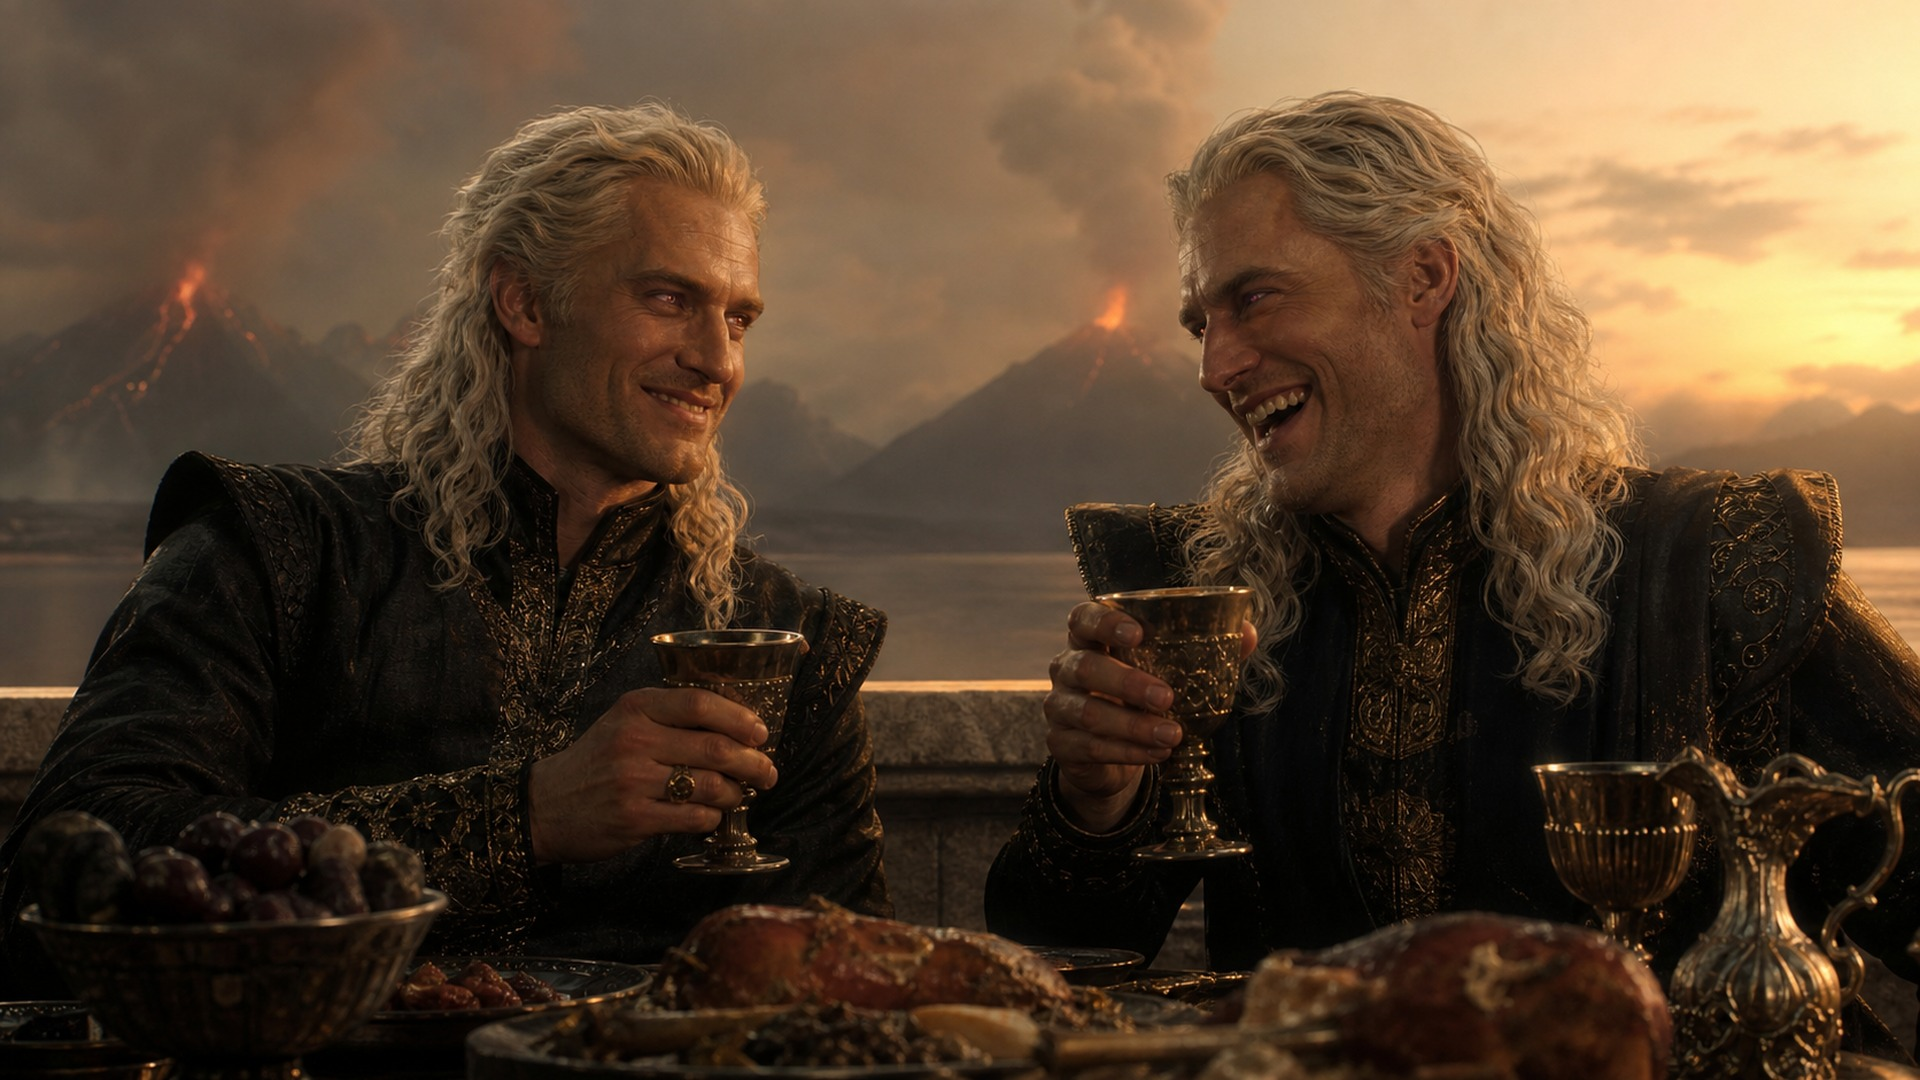
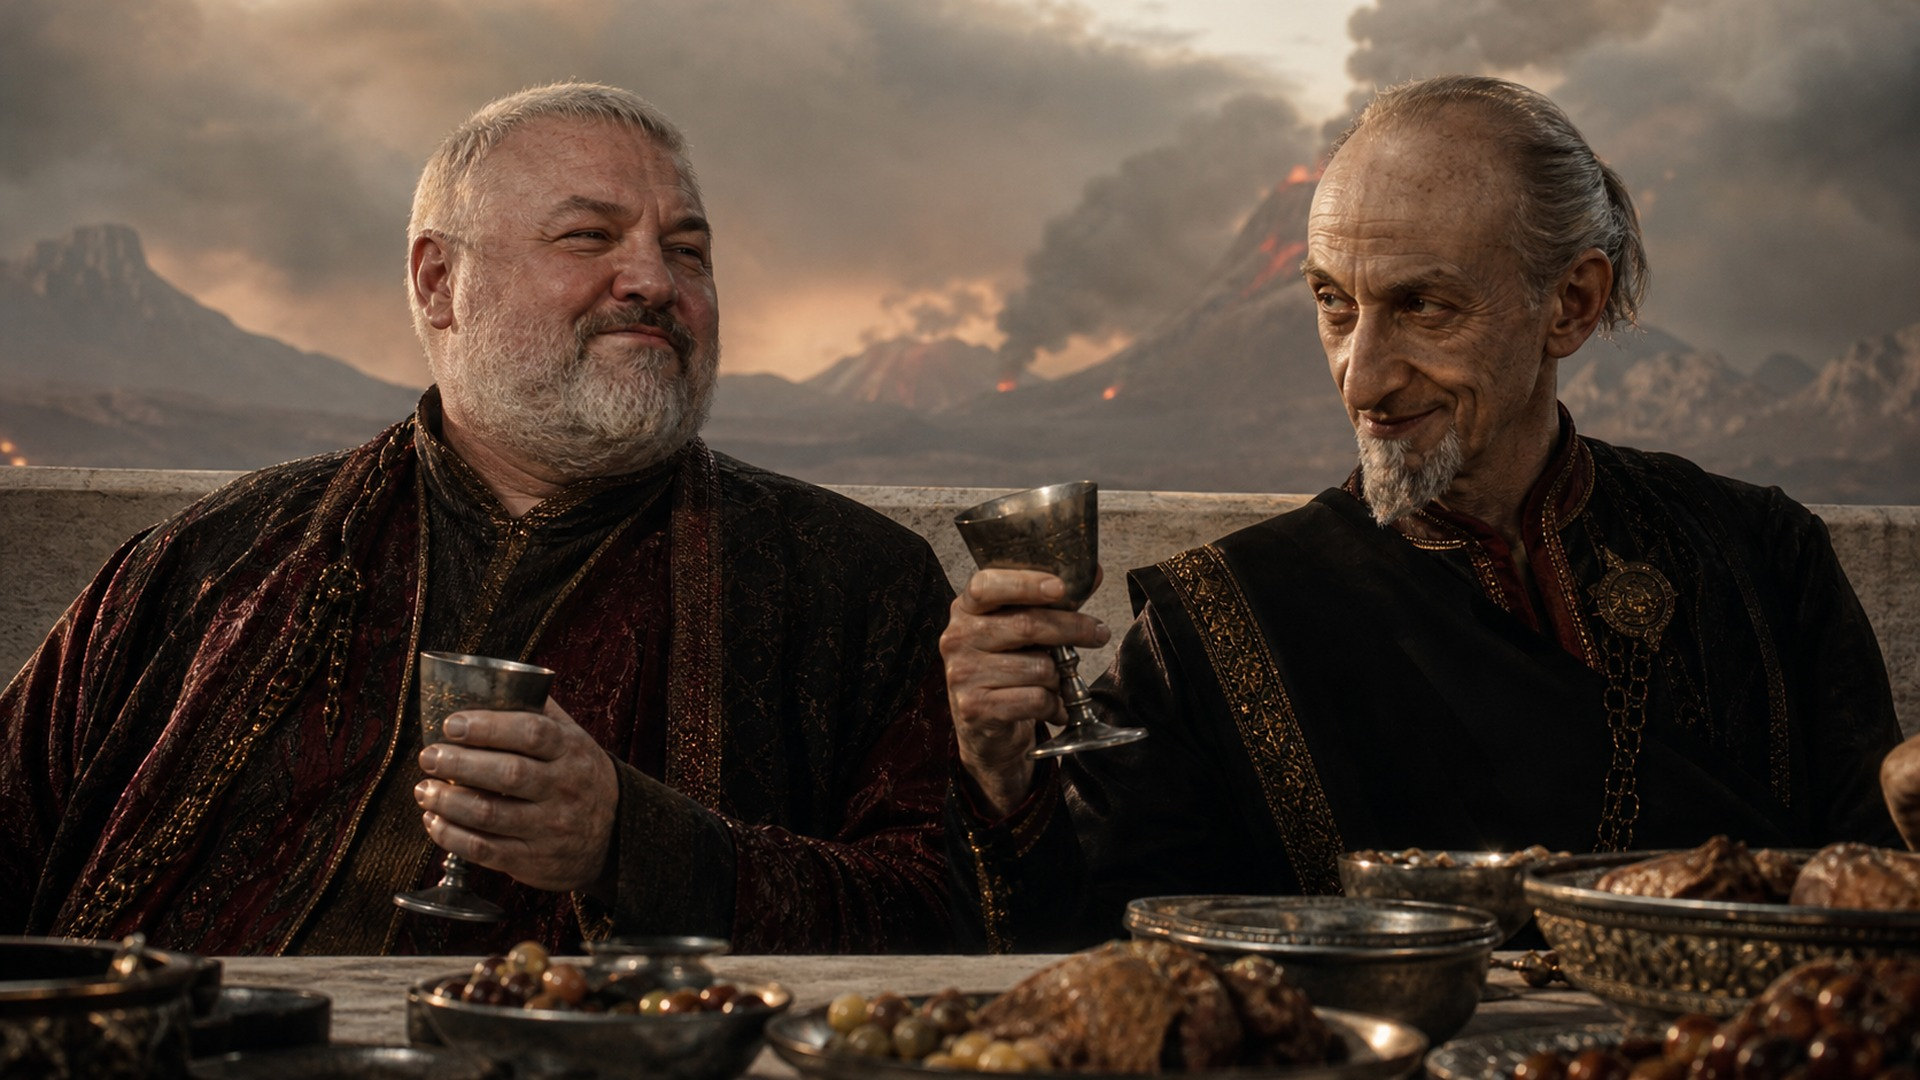
GOT003: BATCH003 10/10 PASS; BATCH004 S031-S038 PASS; plan through I-30; tracker v2.75

diff --git a/projects/dune_archives/tools/plans/got003_plan.py b/projects/dune_archives/tools/plans/got003_plan.py
@@ -43,6 +43,27 @@ PLAN = [
  ('P', 18, None, N('DAENYS_DREAM', 'EST', [], 'a surreal dream vision: a pale Valyrian city reflected upside down in still black water while fire rains from a black sky, a faint translucent image of a girl\'s face with long silver-gold hair and closed eyes overlaid in the sky, dreamlike, haunting', [4]), 'PUSH_IN'),
  ('P', 21, None, N('DRAGONSTONE_ARRIVAL', 'EW', [], 'dark ships with black sails arriving at a black volcanic island with a steaming mountain, five dragons circling above the island, a grey dawn sea, a small rough harbour'), 'DRIFT'),
  ('P', 22, None, N('DRAGONSTONE_CASTLE', 'EW', [], 'Dragonstone castle as described in the books: a great castle of seamless black fused stone on a volcanic island, towers carved in the shape of hunched dragons, a gate shaped like an open dragon mouth, gargoyles, a smoking mountain behind it, stormy grey sea, NO people'), 'TILT_UP'),
- ('P', 23, None, N('DRAGONLORDS_MOCK', 'MS', [], 'two wealthy Valyrian dragonlords with natural pale silver-gold hair and invented original faces, in rich dark silks with gold, laughing scornfully together at a feast table on a pale stone terrace, wine cups in hand, volcanoes smoking on the horizon, restrained expressions'), 'PUSH_IN'),
+ ('P', 23, None, N('DRAGONLORDS_MOCK', 'MS', [], 'two OLDER wealthy Valyrian dragonlords in their late fifties with invented ordinary original faces: one heavyset and jowly with close-cropped silver hair and a short thick silver beard, the other gaunt and bald on top with a hooked nose, thin silver hair tied back tightly and a pointed silver goatee, NOT long flowing hair, NOT handsome leading-man faces, in rich dark silks with gold, smirking scornfully together at a feast table on a pale stone terrace, wine cups in hand, volcanoes smoking on the horizon, restrained, subtle, mouths NOT gaping'), 'PUSH_IN'),
  ('P', 27, None, N('DRAGON_FALLS_ASH', 'EW', [], 'a dragon silhouette tumbling from a black ash-choked sky, wings burning, falling toward a glowing landscape of lava and ruins, seen from far away, apocalyptic, NO people'), 'PUSH_IN'),
+ ('P', 28, None, 'SEA_OF_FIRE', 'DRIFT'),
+ ('P', 29, None, N('VALYRIA_CRUMBLES', 'EW', [], 'pale fused-stone palaces, temples and towers of an ancient city cracking and collapsing as a towering wall of dark sea water rushes in through the streets under a black ash sky lit red from below, steam exploding where water meets lava, seen from far away, NO people'), 'PUSH_IN'),
+ ('P', 33, None, N('VALYRIANS_DIG', 'EW', [], 'a vast ancient mine cut deep into the heart of a volcano: enormous carved shafts and terraces descending into glowing orange depths, rivers of lava far below, wooden scaffolds and chains, a few tiny distant figures with lamps for scale, heat haze, ominous'), 'TILT_DN'),
+ ('P', 35, None, 'VALYRIA_BURNING', 'PUSH_IN'),
+ ('P', 38, None, N('SMOKING_SEA', 'EW', [], 'the Smoking Sea: a dark steaming sea scattered with broken black volcanic islands and the jagged half-sunken ruins of pale stone towers and bridges, thick drifting steam and smoke, a dull red glow beneath the water, grey twilight, eerie and silent, NO people'), 'DRIFT'),
+ ('P', 39, None, N('SHIP_SMOKING_SEA', 'EST', [], 'a lone small sailing ship with a lantern on its prow drifting into a wall of steam and smoke on a dark sea, the ghostly silhouettes of ruined towers looming in the fog ahead, ominous, the crew tiny and seen from far behind'), 'PUSH_IN'),
+ ('P', 40, None, 'EXODUS_SHIPS', 'DRIFT'),
+ ('P', 43, None, N('CENTURY_OF_BLOOD', 'EW', [], 'an ancient eastern port city of pale stone and bronze domes burning at night across a wide harbour, two war fleets of galleys with oars and sails clashing on the black water, fire reflected in the sea, seen from a distant headland, NO close figures'), 'PAN_LR'),
+ ('P', 45, None, 'DRAGONSTONE_CASTLE', 'PUSH_IN'),
+ ('P', 46, None, N('AEGON_BOY', 'MS', [], 'a serious quiet Valyrian boy of about ten with natural pale silver-gold hair and luminous deep purple eyes, an invented original face, in a small black doublet, standing in profile on a black stone battlement shaped like a dragon\'s back, gazing west across a grey sea at sunset, wind in his hair, the only person in the image'), 'PUSH_IN'),
+ ('I', 0, None, 'DRAGONSTONE_CASTLE', 'TILT_UP'),
+ ('I', 6, None, 2, 'PUSH_IN'),
+ ('I', 10, None, N('VISENYA_SWORD', 'MS', ['VISENYA'], 'training alone with her long Valyrian steel sword in a black-stone courtyard at dawn, mid-stance with the blade raised, the smoky rippled grey pattern of the steel catching the light, focused and stern, the only figure in the image', [2]), 'PAN_LR'),
+ ('I', 11, None, 3, 'PUSH_IN'),
+ ('I', 15, None, 1, 'PUSH_IN'),
+ ('I', 19, None, 8, 'PUSH_IN'),
+ ('I', 20, None, 9, 'DRIFT'),
+ ('I', 22, None, 7, 'PUSH_IN'),
+ ('I', 26, None, N('BALERION_SHADOW', 'EW', [], 'the colossal shadow of an unseen giant dragon sweeping over a medieval town of timber and stone houses in bright afternoon sun, the shadow covering whole streets at once, tiny townsfolk looking up, the dragon itself only a dark shape at the very top edge of the frame', [7]), 'PAN_LR'),
+ ('I', 28, None, N('DRAGON_SKULLS', 'EST', [], 'a dark vaulted stone cellar beneath a castle lit by a single torch, enormous ancient black dragon skulls lined along the walls, the biggest skull in the centre with black teeth like swords and a jaw wide enough to swallow a horse and rider, dust and cobwebs, NO people'), 'PUSH_IN'),
+ ('I', 30, None, N('PAINTED_TABLE', 'EST', [], 'the Painted Table of Dragonstone: an enormous fifty-foot-long wooden table carved in the outline of a large continent, its top painted with forests, rivers, mountains, tiny cities and castles, NO borders, NO writing or labels, standing in a round black-stone chamber lit by braziers and tall windows, EMPTY, NO people'), 'PUSH_IN'),
 ]

diff --git a/projects/dune_archives/00_master/MASTER_INDEX_AND_TRACKER.md b/projects/dune_archives/00_master/MASTER_INDEX_AND_TRACKER.md
@@ -751,5 +751,6 @@ Index/QC v21 Doc: `1Xd5uubuVr8HSOOF7w4-m3S2es9A0PhxvI7hFvTYLZpw`. S012/S016 turn
 | v2.72 | 2026-11-27 | **GOT003 approved** ("go on"; defaults: in-video mockups, length as written, end card THE OTHERS). VO turn 1/3: takes c01–c10 recorded (voice-14), 17.6 min, so the full VO is projected at about 47 min raw / 49–50 min edited. 27-take plan in `20_voiceover/GOT003/GOT003_vo_plan.json`. Align workflow + Whisper prompt added. Looks §7 Targaryen; `data/got003_images.py` + `tools/plans/got003_plan.py`; BATCH001 (10 reference stills: Aegon, Visenya, Rhaenys, Daenys, Aenar, Gyldayn, Balerion, Vhagar, Meraxes, the book Iron Throne) all PASS. GOT003 PNGs are git-ignored (about 2.5 MB each × 490); the 1920×1080 JPGs in stills_jpg are committed. |
 | v2.73 | 2026-11-27 | GOT003 VO turn 2/3: takes c11–c20 recorded (voice-14), 20/27 done. BATCH002 (hook: Valyria burning, eruption, sea of fire, exodus ships, conquest teaser, King's Landing, dragons clash, queen across the sea, banner, Citadel): 9 PASS, **B002S019 banner REDO** (four heads instead of three). |
 | v2.74 | 2026-11-27 | GOT003 **VO complete**: 27 takes, 46.0 min raw. c23/c24 were moderation-blocked and re-recorded with softened lines (Rickard/Brandon, Trident, Sack, Jaime, Rhaella); script, vo_text and plan updated to match. CI align 46115164330 triggered. B002S019 banner v2 PASS (three heads). BATCH003: S021–S028 PASS, **S029 REDO** (actor-like face), S030 pending. |
+| v2.75 | 2026-11-28 | GOT003 CI align done (586a04a, GOT003_words.json, 6,855 words vs 6,848 script; every clip ≥0.93 token match). S029 redo PASS (original older faces), S030 PASS → BATCH003 10/10. Plan extended through I-30 (40 stills + reuse rows). BATCH004 S031–S038 PASS; S039 DRAGON_SKULLS, S040 PAINTED_TABLE pending. |
 
 > Turn 22 note: the old manifests v11, continuity v1.4 and original tracker Doc have their Drive descriptions set to SUPERSEDED, pointing at the new IDs above. The Drive tracker v2.12 Doc is a snapshot taken before its own ID was added here.
